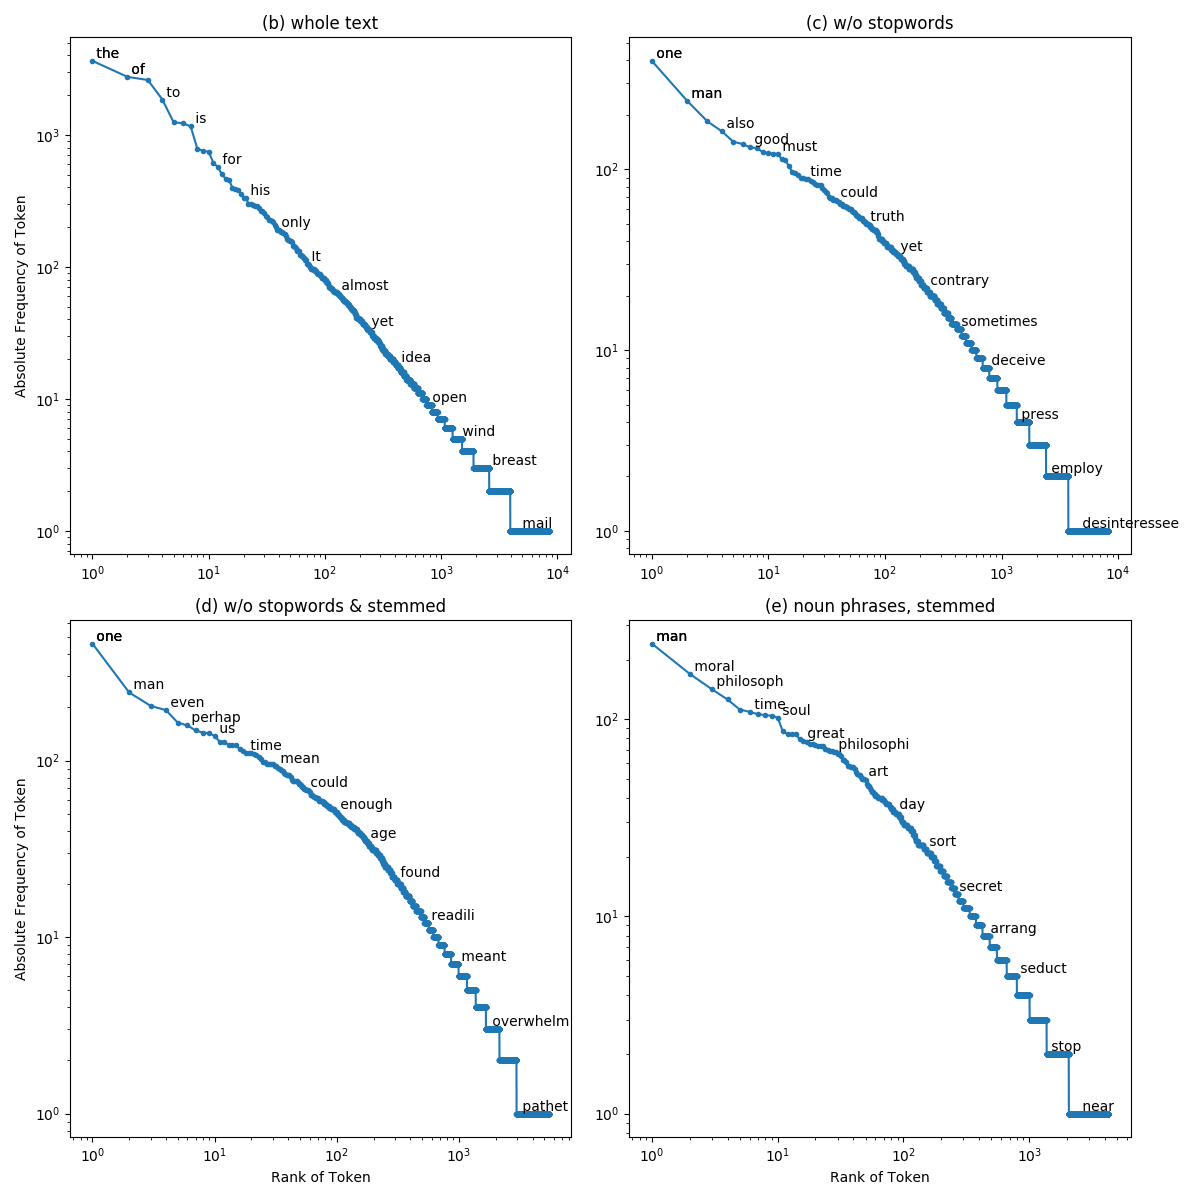
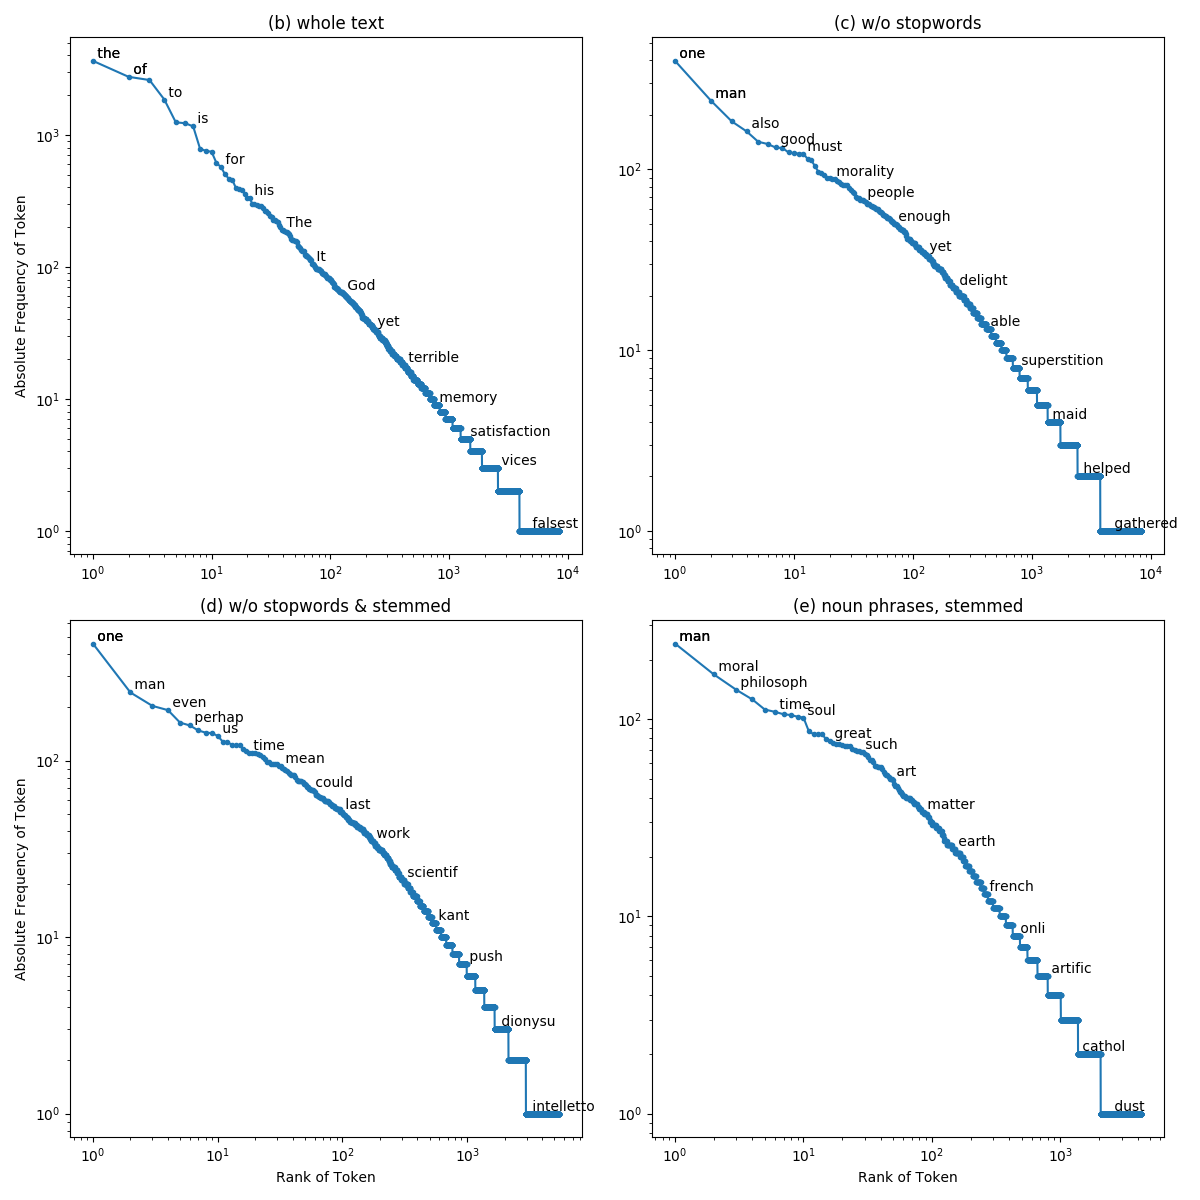
comments

diff --git a/text_mining.py b/text_mining.py
@@ -16,47 +16,64 @@ import numpy as np
 # https://www.ling.upenn.edu/courses/Fall_2003/ling001/penn_treebank_pos.html
 
 def noun_phrases(plain_text):
-    pt = plain_text
-    space = '--'  # had problems with pos tags otherwise
-    pt = pt.translate(str.maketrans('[]', space))
-    sentences = sent_tokenize(pt)
+    """
+    Extracts all the noun phrases from a text.
+    :param plain_text: the whole text in one string
+    :return: noun_phrases: all the noun phrases in one string without separation
+    """
 
-    # pos for sentences
+    # replace brackets by dashes, had problems with pos tags otherwise
+    space = '--'
+    plain_text = plain_text.translate(str.maketrans('[]', space))
+    sentences = sent_tokenize(plain_text)
+
+    # list of pos tagged sentences
     sent_pos = [nltk.pos_tag(nltk.word_tokenize(sent)) for sent in sentences]
 
     # find noun phrases
+    # create grammar rule to search for noun phrases
     grammar = r"""
       NP: {<JJ.*>+?<NN.*>+}
           {<NN.*>+}
     """
-
     cp = nltk.RegexpParser(grammar)
 
     np_text = []
     for i in range(0, len(sent_pos)):
+        # apply grammar rule to find the noun phrases, returns Trees
         noun_phrase = cp.parse(sent_pos[i])
 
         branch = []
+        # extract noun phrases from Tree
         for subtree in noun_phrase.subtrees(filter=lambda t: t.label() == 'NP'):
             k = subtree.leaves()
             phrase = [k[i][0] for i in range(0, len(k))]
-
             separator = ', '
             phrase = separator.join(phrase)
             phrase = re.sub(', ', ' ', phrase)
             branch.append(phrase)
         np_text = np_text + branch
 
-    return ' '.join(np_text)
+    noun_phrases = ' '.join(np_text)  # bring in desired format
+
+    return noun_phrases
 
 
 def bar_plot(tokens, tokens_filtered, tokens_stemmed, tokens_np):
+    """
+    Creates bar plots for the 40 most frequent tokens
+    :param tokens: tokens of whole text, with stopwords
+    :param tokens_filtered: tokens of text without stopwords
+    :param tokens_stemmed: tokens of text without stopwords and stemmed
+    :param tokens_np: tokens of noun phrases only
+    :return: bar plots
+    """
 
     toks = [tokens, tokens_filtered, tokens_stemmed, tokens_np]
 
     fig1, (ax1, ax2, ax3, ax4) = plt.subplots(ncols=4, nrows=1, figsize=(12, 12))
     for ax, k in zip([ax1, ax2, ax3, ax4], toks):
-        tokens_list = k[:50]
+        tokens_list = k[:40]
 
         people = tokens_list.index
         y_pos = np.arange(1, len(people) + 1)
@@ -80,22 +97,29 @@ def bar_plot(tokens, tokens_filtered, tokens_stemmed, tokens_np):
 
 
 def zipfian_plot(tokens, tokens_filtered, tokens_stemmed, tokens_np):
+    """
+    Creates log-Frequency,log-Rank plot to analyze word distribution according to zipfians law
+    :param tokens: tokens of whole text, with stopwords
+    :param tokens_filtered: tokens of text without stopwords
+    :param tokens_stemmed: tokens of text without stopwords and stemmed
+    :param tokens_np: tokens of noun phrases only
+    :return: log-log plots
+    """
 
     toks = [tokens, tokens_filtered, tokens_stemmed, tokens_np]
 
     fig1, ((ax1, ax2), (ax3, ax4)) = plt.subplots(nrows=2, ncols=2, figsize=(12, 12))
     fig1.subplots_adjust(hspace=0.3, wspace=0.1)
 
-    for ax, k in zip([ax1, ax2, ax3, ax4], toks):
-        tokens_list = k                             # TODO: rename
-        counts = tokens_list
-        indices = tokens_list.index
-        ranks = np.arange(1, len(counts) + 1)
-        frequencies = counts
+    for ax, tokens_list in zip([ax1, ax2, ax3, ax4], toks):
+        indices = tokens_list.index   # string of token, need for text
+        ranks = np.arange(1, len(tokens_list) + 1)
+        frequencies = tokens_list
 
         ax.loglog(ranks, frequencies, marker=".")
 
-        for n in list(np.logspace(-0.5, np.log10(len(counts)), 17, endpoint=False).astype(int)):
+        # print some words to their points
+        for n in list(np.logspace(-0.5, np.log10(len(tokens_list)), 17, endpoint=False).astype(int)):
             ax.text(ranks[n], frequencies[n], " " + indices[n],
                          verticalalignment="bottom",
                          horizontalalignment="left")
@@ -115,57 +139,62 @@ def zipfian_plot(tokens, tokens_filtered, tokens_stemmed, tokens_np):
 
 
 def to_lowercase_words(text):
+    """
+    Cleans text. If a word with more than one letters is written in all uppercase letters,
+    the function lowercases all letters but the first one
+    :param text: string of text
+    :return: cleaned string of text
+    """
     return re.sub(r"[A-Z][A-Z]+", lambda word: word.group(0).lower(), text)
 
 
 if __name__ == '__main__':
 
+    # load book and clean the text
     with open("Nietzsche.txt", "r") as f:
         plain_text = f.read().replace('\n', ' ')
 
     plain_text = to_lowercase_words(plain_text) # lowercase the words that are written in all capitals
     plain_words_lst = re.sub("[^\w]", " ", plain_text).split()
 
+    # remove punctuation for task (b), (c), (d)
     space = '                                '  # 32 spaces
     clean_text = plain_text.translate(str.maketrans(string.punctuation, space))
     clean_words_lst = re.sub("[^\w]", " ", clean_text).split()
 
     # (b) tokenize text
     tokenized_text = nltk.word_tokenize(clean_text)
-    tokens = pd.Series(tokenized_text).value_counts()
+    tokens = pd.Series(tokenized_text).value_counts()  # count occurrence
 
     # (c) stopwords
 
-    # lowercase to also remove title and starting words
     stop_words = set(stopwords.words('english'))
 
     # filter the text and only keep words that are not stopwords.
-    # stopwords are all lower case so also lowercase word when lookup
+    # all words in stop_words are lower case so also lowercase word when lookup
     filtered_text = [w for w in clean_words_lst if w.lower() not in stop_words]
     filtered_text = ' '.join(filtered_text)
     tokens_filtered = nltk.word_tokenize(filtered_text)
-    tokens_filtered = pd.Series(tokens_filtered).value_counts()
+    tokens_filtered = pd.Series(tokens_filtered).value_counts()  # count occurrence
 
     # (d) stemming
 
     ps = PorterStemmer()
 
+    # also here remove stopwords
     filtered_text = [w for w in clean_words_lst if w.lower() not in stop_words]
+    # and stemm the words
     stemmed_text = [ps.stem(w) for w in filtered_text]
     stemmed_text = ' '.join(stemmed_text)
     tokens_stemmed = nltk.word_tokenize(stemmed_text)
-    tokens_stemmed = pd.Series(tokens_stemmed).value_counts()
+    tokens_stemmed = pd.Series(tokens_stemmed).value_counts()  # count occurrence
 
     # (e) noun phrase
 
-    pt = plain_text[545:]
-    pt = plain_text
+    # extract noun phrases from text, stemm and tokenize them
+    np_text = noun_phrases(plain_text)
 
-    clean_text = noun_phrases(pt)
-
-    tokenized_text = nltk.word_tokenize(clean_text)
-    tokens_np = pd.Series(tokenized_text).value_counts()
-
+    tokenized_text = nltk.word_tokenize(np_text)
     stemmed_text = [ps.stem(w) for w in tokenized_text]
     tokens_np = pd.Series(stemmed_text).value_counts()
 
@@ -176,6 +205,7 @@ if __name__ == '__main__':
           '\n w/o stopwords & stemmed: \n' + str(tokens_stemmed[:20].index.values) +
           '\n noun phrases, stemmed: \n' + str(tokens_np[:20].index.values))
 
+    # create plots
     fig1 = bar_plot(tokens, tokens_filtered, tokens_stemmed, tokens_np)
     fig2 = zipfian_plot(tokens, tokens_filtered, tokens_stemmed, tokens_np)
     fig1.savefig('tokens.png')
@@ -184,11 +214,11 @@ if __name__ == '__main__':
     plt.show()
 
     # (f) faulty POS tagging
+    sentence = 'the reverse of those hitherto prevalent--philosophers of the dangerous "Perhaps" in every sense of the term'
     sentence = 'hitherto prevalent'
     sentence = 'WHOSE DUTY IS WAKEFULNESS ITSELF, are the heirs of all the strength which the struggle against this error has fostered.'
     sentence = 'WHAT really is this "Will to Truth" in us?'
     sentence = 'The fundamental belief of metaphysicians is THE BELIEF IN ANTITHESES OF VALUES.'
-    sentence = '"DISONS DONC HARDIMENT QUE LA RELIGION EST UN PRODUIT DE L\'HOMME NORMAL, QUE L\'HOMME EST LE PLUS DANS LE VRAI...'
 
     sentence_lc = to_lowercase_words(sentence)
     # Actual: [('hitherto', 'NN'), ('prevalent', 'NN')]
